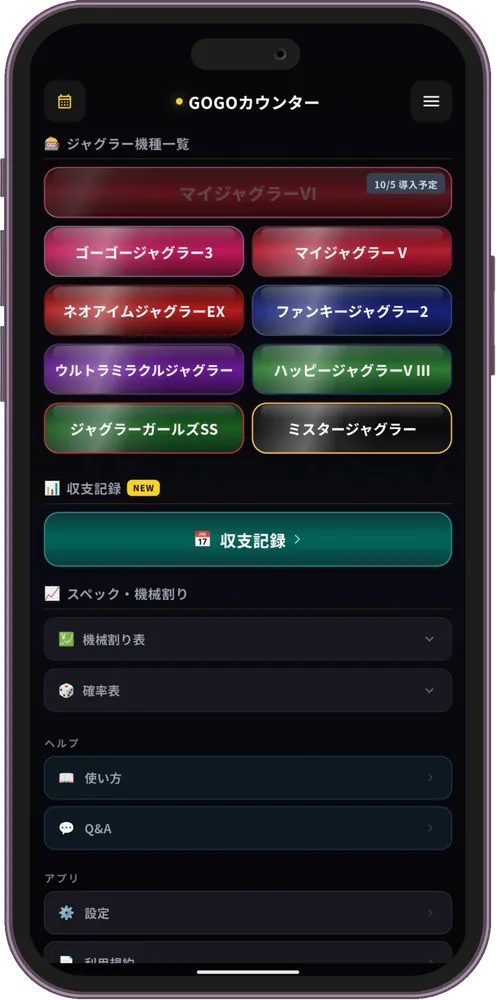
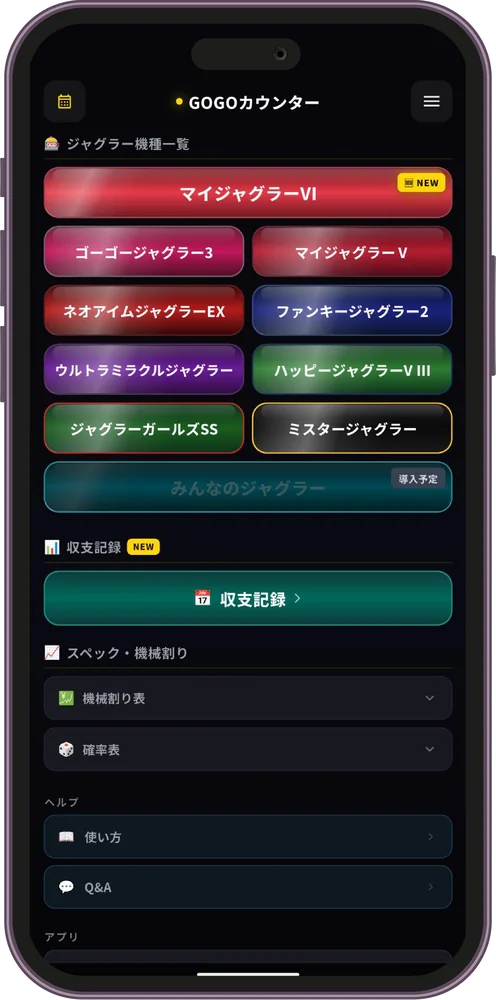
v2.1.3 対応：全9機種化・マイジャグラーVI の表記と並び・メイン画面の画像を差し替え
- トップ：全8機種→全9機種（title・description・OG・バッジ・料金・よくある質問と JSON-LD）
- 対応機種：VI のカードを先頭に（スマホ2列では全幅・PC3列では1マス）、「近日対応」と薄い表示を外し、※注記を「調査中」の説明に
- 設定判別ツール：「VI は未対応」→「アプリは合算で対応・Web 版は解析値の公開後」、「全8機種」→「8機種に対応」
- 表記をアプリ・ストアとそろえた：マイジャグラーⅥ→VI、トップのハッピージャグラーVⅢ→V Ⅲ
- ギャラリーのメイン画面の画像を v2.1.3 の画面に差し替え
- サイトマップの lastmod（/・/tool/・/tool/my-juggler-5.html）を 2026-09-29 に

diff --git a/index.html b/index.html
@@ -3,8 +3,8 @@
 <head>
 <meta charset="utf-8"/>
 <meta content="width=device-width, initial-scale=1.0" name="viewport"/>
-<title>GOGOカウンター | ジャグラー設定判別・小役カウンターアプリ【全8機種対応】</title>
-<meta name="description" content="ジャグラー専用の設定判別・小役カウンターアプリ。カチカチ君の代わりにスマホで小役カウント、合算・ぶどう・REG確率と設定ゲージをリアルタイム表示。全8機種対応・基本無料・広告なし。">
+<title>GOGOカウンター | ジャグラー設定判別・小役カウンターアプリ【全9機種対応】</title>
+<meta name="description" content="ジャグラー専用の設定判別・小役カウンターアプリ。カチカチ君の代わりにスマホで小役カウント、合算・ぶどう・REG確率と設定ゲージをリアルタイム表示。全9機種対応・基本無料・広告なし。">
 <link rel="canonical" href="https://gogo-counter.kuwastudio.com/">
 <link rel="icon" href="images/logo_nobg.png" type="image/png">
 <meta name="google-site-verification" content="t8omNm1JTQ_4rYZvV7Wvj5VZoiLu_E4VOdr5pDnm44k" />
@@ -21,7 +21,7 @@
   "@context": "https://schema.org",
   "@type": "SoftwareApplication",
   "name": "GOGOカウンター",
-  "description": "ジャグラーシリーズ全8機種対応の設定判別・小役カウンターアプリ。ボーナス・ぶどうをワンタップで記録し、設定1〜6をリアルタイム推測。基本無料・収支記録は¥980買い切り。",
+  "description": "ジャグラーシリーズ全9機種対応の設定判別・小役カウンターアプリ。ボーナス・ぶどうをワンタップで記録し、設定1〜6をリアルタイム推測。基本無料・収支記録は¥980買い切り。",
   "applicationCategory": "GameApplication",
   "operatingSystem": "Android, iOS",
   "offers": [
@@ -34,7 +34,7 @@
 }
 </script>
 <meta property="og:title" content="GOGOカウンター | 設定が、&quot;見える&quot;。ジャグラー設定判別・小役カウンター">
-<meta property="og:description" content="親指1本でカウントするだけ。合算・ぶどう・REG確率と設定ゲージをリアルタイム表示。全8機種対応・基本無料・広告なし。">
+<meta property="og:description" content="親指1本でカウントするだけ。合算・ぶどう・REG確率と設定ゲージをリアルタイム表示。全9機種対応・基本無料・広告なし。">
 <meta property="og:type" content="website">
 <meta property="og:url" content="https://gogo-counter.kuwastudio.com/">
 <meta property="og:image" content="https://gogo-counter.kuwastudio.com/images/logo_nobg.png">
@@ -42,7 +42,7 @@
 <meta property="og:locale" content="ja_JP">
 <meta name="twitter:card" content="summary">
 <meta name="twitter:title" content="GOGOカウンター | 設定が、&quot;見える&quot;。">
-<meta name="twitter:description" content="ジャグラー専用の設定判別・小役カウンター。全8機種対応・基本無料。">
+<meta name="twitter:description" content="ジャグラー専用の設定判別・小役カウンター。全9機種対応・基本無料。">
 <link href="https://fonts.googleapis.com/css2?family=Sora:wght@700;800&family=Noto+Sans+JP:wght@400;500;700;900&family=JetBrains+Mono:wght@500;700&display=swap" rel="stylesheet"/>
 <link href="https://fonts.googleapis.com/css2?family=Material+Symbols+Outlined:wght,FILL@100..700,0..1&display=swap" rel="stylesheet"/>
 <style>
@@ -125,6 +125,10 @@
     .hide-scrollbar::-webkit-scrollbar { display: none; }
     .hide-scrollbar { -ms-overflow-style: none; scrollbar-width: none; }
     .btn-disabled { opacity: 0.45; cursor: not-allowed; pointer-events: none; }
+
+    /* 対応機種：マイジャグラーVIのカードは、スマホ（2列）では横幅いっぱい、PC（3列・768px以上）では1マス */
+    .machine-card-wide { grid-column: 1 / -1; }
+    @media (min-width: 768px) { .machine-card-wide { grid-column: auto; } }
 </style>
 <link rel="stylesheet" href="assets/tailwind.css">
 </head>
@@ -194,7 +198,7 @@
     <!-- バッジ3点 -->
     <div class="flex flex-wrap gap-sm justify-center">
       <span class="inline-flex items-center gap-xs bg-surface-container border border-gold/40 text-gold text-sm font-bold px-sm py-xs rounded-full"><span class="material-symbols-outlined text-lg">paid</span>基本無料</span>
-      <span class="inline-flex items-center gap-xs bg-surface-container border border-cyan/40 text-cyan text-sm font-bold px-sm py-xs rounded-full"><span class="material-symbols-outlined text-lg">casino</span>全8機種対応</span>
+      <span class="inline-flex items-center gap-xs bg-surface-container border border-cyan/40 text-cyan text-sm font-bold px-sm py-xs rounded-full"><span class="material-symbols-outlined text-lg">casino</span>全9機種対応</span>
       <span class="inline-flex items-center gap-xs bg-surface-container border border-neon-pink/40 text-neon-pink text-sm font-bold px-sm py-xs rounded-full"><span class="material-symbols-outlined text-lg">swipe_up</span>片手操作OK</span>
     </div>
 
@@ -538,19 +542,19 @@
 <!-- ===== 対応機種 ===== -->
 <section class="py-xl px-margin-mobile md:px-margin-desktop max-w-6xl mx-auto" id="compatibility">
   <h2 class="font-head text-[28px] md:text-[32px] text-white text-center mb-xs">対応機種</h2>
-  <p class="text-center text-gold font-bold text-xl mb-xl">ジャグラーシリーズ 全8機種対応</p>
+  <p class="text-center text-gold font-bold text-xl mb-xl">ジャグラーシリーズ 全9機種対応</p>
   <div class="grid grid-cols-2 md:grid-cols-3 gap-sm md:gap-md text-center text-sm md:text-base">
+    <div class="machine-card-wide bg-gradient-to-b from-red-500 to-red-900 border border-white/20 rounded-xl py-sm px-xs shadow-[inset_0_2px_10px_rgba(255,255,255,0.15)] min-h-[76px] text-white font-bold flex items-center justify-center">マイジャグラーVI</div>
     <div class="bg-gradient-to-b from-red-700 to-red-950 border border-white/20 rounded-xl py-sm px-xs shadow-[inset_0_2px_10px_rgba(255,255,255,0.15)] min-h-[76px] text-white font-bold flex items-center justify-center">マイジャグラーV</div>
     <div class="bg-gradient-to-b from-pink-500 to-pink-900 border border-white/20 rounded-xl py-sm px-xs shadow-[inset_0_2px_10px_rgba(255,255,255,0.15)] min-h-[76px] text-white font-bold flex items-center justify-center">ゴーゴージャグラー3</div>
     <div class="bg-gradient-to-b from-blue-700 to-blue-950 border border-white/20 rounded-xl py-sm px-xs shadow-[inset_0_2px_10px_rgba(255,255,255,0.15)] min-h-[76px] text-white font-bold flex items-center justify-center">ファンキージャグラー2</div>
     <div class="bg-gradient-to-b from-indigo-500 to-indigo-900 border border-white/20 rounded-xl py-sm px-xs shadow-[inset_0_2px_10px_rgba(255,255,255,0.15)] min-h-[76px] text-white font-bold flex items-center justify-center">ネオアイムジャグラーEX</div>
-    <div class="bg-gradient-to-b from-green-600 to-green-900 border border-white/20 rounded-xl py-sm px-xs shadow-[inset_0_2px_10px_rgba(255,255,255,0.15)] min-h-[76px] text-white font-bold flex items-center justify-center">ハッピージャグラーVⅢ</div>
+    <div class="bg-gradient-to-b from-green-600 to-green-900 border border-white/20 rounded-xl py-sm px-xs shadow-[inset_0_2px_10px_rgba(255,255,255,0.15)] min-h-[76px] text-white font-bold flex items-center justify-center">ハッピージャグラーV Ⅲ</div>
     <div class="bg-gradient-to-b from-purple-600 to-purple-900 border border-white/20 rounded-xl py-sm px-xs shadow-[inset_0_2px_10px_rgba(255,255,255,0.15)] min-h-[76px] text-white font-bold flex items-center justify-center">ウルトラミラクルジャグラー</div>
     <div class="bg-gradient-to-b from-green-500 to-green-800 border border-white/20 rounded-xl py-sm px-xs shadow-[inset_0_2px_10px_rgba(255,255,255,0.15)] min-h-[76px] text-white font-bold flex items-center justify-center">ジャグラーガールズSS</div>
     <div class="bg-gradient-to-b from-stone-600 to-stone-900 border border-yellow-500/50 rounded-xl py-sm px-xs shadow-[inset_0_2px_10px_rgba(255,255,255,0.1)] min-h-[76px] text-white font-bold flex items-center justify-center">ミスタージャグラー</div>
-    <div class="bg-gradient-to-b from-red-500 to-red-900 border border-white/20 rounded-xl py-sm px-xs shadow-[inset_0_2px_10px_rgba(255,255,255,0.15)] min-h-[76px] text-white font-bold flex items-center justify-center opacity-50">マイジャグラーⅥ<br>（近日対応）</div>
   </div>
-  <p class="text-center text-on-surface-variant/60 mt-md text-sm">※マイジャグラーⅥは近日対応予定です</p>
+  <p class="text-center text-on-surface-variant/60 mt-md text-sm">※マイジャグラーVIのぶどう・チェリー・単独REG、ミスタージャグラーの単独REGは、解析値が未公開のため「調査中」と表示します。マイジャグラーVIは合算確率で設定を推測します</p>
 </section>
 
 <!-- ===== 料金 ===== -->
@@ -569,7 +573,7 @@
         <li class="flex items-center gap-xs"><span class="material-symbols-outlined text-cyan text-xl">check_circle</span> 設定ゲージ（リアルタイム設定推測）</li>
         <li class="flex items-center gap-xs"><span class="material-symbols-outlined text-cyan text-xl">check_circle</span> 差枚リアルタイム計算</li>
         <li class="flex items-center gap-xs"><span class="material-symbols-outlined text-cyan text-xl">check_circle</span> セッション管理・復帰</li>
-        <li class="flex items-center gap-xs"><span class="material-symbols-outlined text-cyan text-xl">check_circle</span> 全8機種対応・機種別スペック内蔵</li>
+        <li class="flex items-center gap-xs"><span class="material-symbols-outlined text-cyan text-xl">check_circle</span> 全9機種対応・機種別スペック内蔵</li>
       </ul>
       <div class="flex flex-col gap-sm">
         <a href="https://play.google.com/store/apps/details?id=com.oimochan99.gogocounter" target="_blank" rel="noopener" class="bg-primary-container text-background font-bold px-lg py-sm rounded-full neon-bloom-primary hover:bg-primary-fixed transition-all flex items-center justify-center gap-xs w-full">
@@ -636,7 +640,7 @@
     </details>
     <details class="bg-surface-container border border-white/10 rounded-xl p-md group">
       <summary class="font-bold cursor-pointer list-none flex justify-between items-center text-primary">どのジャグラー機種に対応していますか？<span class="material-symbols-outlined group-open:rotate-180 transition-transform">expand_more</span></summary>
-      <p class="mt-md text-on-surface-variant border-t border-white/10 pt-md">マイジャグラーV・ゴーゴージャグラー3・ファンキージャグラー2・ネオアイムジャグラーEX・ハッピージャグラーVⅢ・ウルトラミラクルジャグラー・ジャグラーガールズSS・ミスタージャグラーの全8機種です。マイジャグラーⅥは近日対応予定です。</p>
+      <p class="mt-md text-on-surface-variant border-t border-white/10 pt-md">マイジャグラーVI・マイジャグラーV・ゴーゴージャグラー3・ファンキージャグラー2・ネオアイムジャグラーEX・ハッピージャグラーV Ⅲ・ウルトラミラクルジャグラー・ジャグラーガールズSS・ミスタージャグラーの全9機種です。マイジャグラーVIは、ぶどう・チェリー・単独REGの解析値が公開されるまで「調査中」と表示し、合算確率で設定を推測します。</p>
     </details>
     <details class="bg-surface-container border border-white/10 rounded-xl p-md group">
       <summary class="font-bold cursor-pointer list-none flex justify-between items-center text-primary">iPhoneでも使えますか？<span class="material-symbols-outlined group-open:rotate-180 transition-transform">expand_more</span></summary>
@@ -656,7 +660,7 @@
     { "@type": "Question", "name": "インターネット接続は必要ですか？", "acceptedAnswer": { "@type": "Answer", "text": "不要です。全機能をオフラインで利用できます。" } },
     { "@type": "Question", "name": "データはどこに保存されますか？", "acceptedAnswer": { "@type": "Answer", "text": "端末内にのみ保存されます。アカウント登録は不要で、外部サーバーへの送信はありません。" } },
     { "@type": "Question", "name": "機種変更したらデータは消えますか？", "acceptedAnswer": { "@type": "Answer", "text": "プレミアム版ではJSON形式でエクスポート・インポートができ、機種変更後もデータを引き継げます。" } },
-    { "@type": "Question", "name": "どのジャグラー機種に対応していますか？", "acceptedAnswer": { "@type": "Answer", "text": "マイジャグラーV・ゴーゴージャグラー3・ファンキージャグラー2・ネオアイムジャグラーEX・ハッピージャグラーVⅢ・ウルトラミラクルジャグラー・ジャグラーガールズSS・ミスタージャグラーの全8機種。マイジャグラーⅥは近日対応予定です。" } },
+    { "@type": "Question", "name": "どのジャグラー機種に対応していますか？", "acceptedAnswer": { "@type": "Answer", "text": "マイジャグラーVI・マイジャグラーV・ゴーゴージャグラー3・ファンキージャグラー2・ネオアイムジャグラーEX・ハッピージャグラーV Ⅲ・ウルトラミラクルジャグラー・ジャグラーガールズSS・ミスタージャグラーの全9機種です。マイジャグラーVIは、ぶどう・チェリー・単独REGの解析値が公開されるまで「調査中」と表示し、合算確率で設定を推測します。" } },
     { "@type": "Question", "name": "iPhoneでも使えますか？", "acceptedAnswer": { "@type": "Answer", "text": "使えます。iOS版（App Store）・Android版（Google Play）の両方を公開しています。iOS版はiPadのネイティブ表示にも対応しています。" } }
   ]
 }

diff --git a/tool/index.html b/tool/index.html
@@ -4,7 +4,7 @@
 <meta charset="utf-8"/>
 <meta content="width=device-width, initial-scale=1.0" name="viewport"/>
 <title>ジャグラー設定判別ツール｜ぶどう・合算から設定1〜6を無料判定 – GOGOカウンター</title>
-<meta name="description" content="ジャグラー全8機種対応の設定判別ツール。ゲーム数・BIG・REG・ぶどう回数を入れるだけで設定1〜6の可能性を無料判定。登録不要・アプリ版と同じ計算式。途中参加（後ヅモ）にも対応。">
+<meta name="description" content="ジャグラー8機種に対応した設定判別ツール。ゲーム数・BIG・REG・ぶどう回数を入れるだけで設定1〜6の可能性を無料判定。登録不要・アプリ版と同じ計算式。途中参加（後ヅモ）にも対応。">
 <link rel="canonical" href="https://gogo-counter.kuwastudio.com/tool/">
 <link rel="icon" href="/images/logo_nobg.png" type="image/png">
 <script type="application/ld+json">
@@ -18,7 +18,7 @@
 }
 </script>
 <meta property="og:title" content="ジャグラー設定判別ツール｜ぶどう・合算から設定1〜6を無料判定">
-<meta property="og:description" content="ゲーム数・BIG・REG・ぶどう回数を入れるだけ。ジャグラー全8機種対応の設定判別ツール。登録不要・アプリ版と同じ計算式。">
+<meta property="og:description" content="ゲーム数・BIG・REG・ぶどう回数を入れるだけ。ジャグラー8機種に対応した設定判別ツール。登録不要・アプリ版と同じ計算式。">
 <meta property="og:type" content="website">
 <meta property="og:url" content="https://gogo-counter.kuwastudio.com/tool/">
 <meta property="og:image" content="https://gogo-counter.kuwastudio.com/images/logo_nobg.png">
@@ -26,7 +26,7 @@
 <meta property="og:locale" content="ja_JP">
 <meta name="twitter:card" content="summary">
 <meta name="twitter:title" content="ジャグラー設定判別ツール（無料・登録不要）">
-<meta name="twitter:description" content="ジャグラー全8機種対応。ぶどう・合算から設定1〜6を判定します。">
+<meta name="twitter:description" content="ジャグラー8機種に対応。ぶどう・合算から設定1〜6を判定します。">
 <link href="https://fonts.googleapis.com/css2?family=Sora:wght@700;800&family=Noto+Sans+JP:wght@400;500;700;900&family=JetBrains+Mono:wght@500;700&display=swap" rel="stylesheet"/>
 <link href="https://fonts.googleapis.com/css2?family=Material+Symbols+Outlined:wght,FILL@100..700,0..1&display=swap" rel="stylesheet"/>
 <style>
@@ -161,7 +161,7 @@
   <div class="flex flex-wrap gap-xs mb-md">
     <span class="inline-flex items-center gap-xs bg-surface-container border border-gold/40 text-gold text-xs font-bold px-sm py-xs rounded-full"><span class="material-symbols-outlined text-base">paid</span>完全無料</span>
     <span class="inline-flex items-center gap-xs bg-surface-container border border-cyan/40 text-cyan text-xs font-bold px-sm py-xs rounded-full"><span class="material-symbols-outlined text-base">person_off</span>登録不要</span>
-    <span class="inline-flex items-center gap-xs bg-surface-container border border-neon-pink/40 text-neon-pink text-xs font-bold px-sm py-xs rounded-full"><span class="material-symbols-outlined text-base">casino</span>全8機種</span>
+    <span class="inline-flex items-center gap-xs bg-surface-container border border-neon-pink/40 text-neon-pink text-xs font-bold px-sm py-xs rounded-full"><span class="material-symbols-outlined text-base">casino</span>8機種対応</span>
     <span class="inline-flex items-center gap-xs bg-surface-container border border-white/20 text-on-surface-variant text-xs font-bold px-sm py-xs rounded-full"><span class="material-symbols-outlined text-base">verified</span>アプリと同じ計算式</span>
   </div>
 
@@ -186,7 +186,7 @@
     <a href="/tool/mister-juggler.html" class="mcard" data-machine-card="ミスタージャグラー"><span class="mcard-name">ミスタージャグラー</span><span class="material-symbols-outlined mcard-arrow">chevron_right</span></a>
   </div>
   <p class="text-xs text-on-surface-variant/60 mt-sm">
-    マイジャグラーⅥは、ぶどう・単独REGの解析値がまだ公開されていないため未対応です。公開され次第、アプリ・Web版とも対応します。
+    マイジャグラーVIは、アプリでは合算確率による判別に対応しています。ぶどう・チェリー・単独REGは、解析値の公開待ちのため「調査中」と表示します。このWeb版は、解析値が公開されてから対応します。
   </p>
 </section>
 
@@ -353,8 +353,8 @@
       <p class="mt-md text-on-surface-variant border-t border-white/10 pt-md">できます。「途中から打ち始めた場合」を開いて、前の人が回した分のゲーム数・BIG・REGを入れてください。<br>このとき、ボーナス確率は台の累計ゲーム数で計算し、ぶどうと単独REGは<strong class="text-white">自分が回した分だけ</strong>を分母にします。自分が見ていない区間のぶどうは数えようがないためで、アプリ本体もまったく同じ扱いをしています。</p>
     </details>
     <details class="bg-surface-container border border-white/10 rounded-xl p-md group">
-      <summary class="font-bold cursor-pointer list-none flex justify-between items-center text-primary gap-sm">マイジャグラーⅥには対応していますか？<span class="material-symbols-outlined group-open:rotate-180 transition-transform">expand_more</span></summary>
-      <p class="mt-md text-on-surface-variant border-t border-white/10 pt-md">まだ対応していません。BIG・REG・合算・機械割はマイジャグラーⅤと同一とメーカーから発表されていますが、ぶどう確率と単独REG確率の解析値が公開されていないためです。不確かな数値で判定を出すより、対応しないほうが誠実だと考えています。公開され次第、アプリ・Web版とも対応します。</p>
+      <summary class="font-bold cursor-pointer list-none flex justify-between items-center text-primary gap-sm">マイジャグラーVIには対応していますか？<span class="material-symbols-outlined group-open:rotate-180 transition-transform">expand_more</span></summary>
+      <p class="mt-md text-on-surface-variant border-t border-white/10 pt-md">アプリは対応しています。BIG・REG・合算・機械割はマイジャグラーⅤと同一とメーカーから発表されていますが、ぶどう・チェリー・単独REGの解析値はまだ公開されていません。そのためアプリでは、合算確率だけで設定を推測し、ぶどう・チェリー・単独REGは「調査中」と表示しています。このWeb版は、解析値が公開されてから対応します。</p>
     </details>
     <details class="bg-surface-container border border-white/10 rounded-xl p-md group">
       <summary class="font-bold cursor-pointer list-none flex justify-between items-center text-primary gap-sm">チェリーの回数を入れる欄がないのはなぜですか？<span class="material-symbols-outlined group-open:rotate-180 transition-transform">expand_more</span></summary>

diff --git a/tool/my-juggler-5.html b/tool/my-juggler-5.html
@@ -256,7 +256,7 @@
   <div class="space-y-sm">
 <details class="bg-surface-container border border-white/10 rounded-xl p-md group"><summary class="font-bold cursor-pointer list-none flex justify-between items-center text-primary gap-sm">単独REGを数えられませんでした。合算とぶどうだけでも使えますか？<span class="material-symbols-outlined group-open:rotate-180 transition-transform">expand_more</span></summary><p class="mt-md text-on-surface-variant border-t border-white/10 pt-md">使えます。入力のない指標は計算から外れるだけで、0回だったものとして扱われることはありません。ただしマイジャグラーⅤは単独REG（設定1が1/662.5、設定6が1/330.3）の開きが最も大きい機種なので、そこを空けると情報量の多い指標を1つ落とすことになります。ぶどうは設定1が1/5.90、設定6が1/5.66と1回あたりの差が小さいため、合算とぶどうだけの場合は結論が出るまでに時間がかかるとお考えください。</p></details>
 <details class="bg-surface-container border border-white/10 rounded-xl p-md group"><summary class="font-bold cursor-pointer list-none flex justify-between items-center text-primary gap-sm">ぶどうが1/5.66より軽く出ています。設定6と考えていいですか？<span class="material-symbols-outlined group-open:rotate-180 transition-transform">expand_more</span></summary><p class="mt-md text-on-surface-variant border-t border-white/10 pt-md">まだ判断できません。設定5の1/5.76と設定6の1/5.66の差は、この機種のぶどうでは最も大きい部分ですが、それでも3000ゲーム時点での設定1と設定6の平均回数の差は約21回で、偶然のばらつきも同じくらいの幅があります。ぶどうが軽いことは設定6の確率を押し上げる材料にはなりますが、単体では決め手になりません。合算（設定6は1/115）と単独REG（同1/330.3）も入力したうえで、最有力設定の確率がどこまで上がっているかでご判断ください。</p></details>
-<details class="bg-surface-container border border-white/10 rounded-xl p-md group"><summary class="font-bold cursor-pointer list-none flex justify-between items-center text-primary gap-sm">マイジャグラーⅥにもこのページの数値を当てはめられますか？<span class="material-symbols-outlined group-open:rotate-180 transition-transform">expand_more</span></summary><p class="mt-md text-on-surface-variant border-t border-white/10 pt-md">当てはめられません。マイジャグラーⅥはぶどう確率と単独REG確率の解析値が公開されておらず、本ツールも未対応です。判別に使う3指標のうち2つが未公開のままマイジャグラーⅤの数値で代用すると、出てくる確率の意味が変わってしまいます。解析値が公開され次第、アプリ・Web版とも対応する予定です。</p></details>
+<details class="bg-surface-container border border-white/10 rounded-xl p-md group"><summary class="font-bold cursor-pointer list-none flex justify-between items-center text-primary gap-sm">マイジャグラーVIにもこのページの数値を当てはめられますか？<span class="material-symbols-outlined group-open:rotate-180 transition-transform">expand_more</span></summary><p class="mt-md text-on-surface-variant border-t border-white/10 pt-md">当てはめられません。マイジャグラーVIはぶどう確率と単独REG確率の解析値が公開されておらず、このWeb版のツールも未対応です。判別に使う3指標のうち2つが未公開のままマイジャグラーⅤの数値で代用すると、出てくる確率の意味が変わってしまいます。解析値が公開され次第、Web版も対応する予定です。アプリでは、合算確率による判別に先に対応しています。</p></details>
 <details class="bg-surface-container border border-white/10 rounded-xl p-md group"><summary class="font-bold cursor-pointer list-none flex justify-between items-center text-primary gap-sm">設定6の機械割109.4%は他のジャグラーと比べてどうですか？<span class="material-symbols-outlined group-open:rotate-180 transition-transform">expand_more</span></summary><p class="mt-md text-on-surface-variant border-t border-white/10 pt-md">当サイトが収録するジャグラー8機種の設定6のなかでは、マイジャグラーⅤの109.4%が最も高い数値です。次いでファンキージャグラー2が109.0%、ハッピージャグラーV Ⅲが108.4%となります。ただし機械割は設定ごとの理論値であり、実際の収支を示すものではありません。本ツールの判別計算にも使っていません。</p></details>
   </div>
   <p class="text-sm text-on-surface-variant mt-md">
